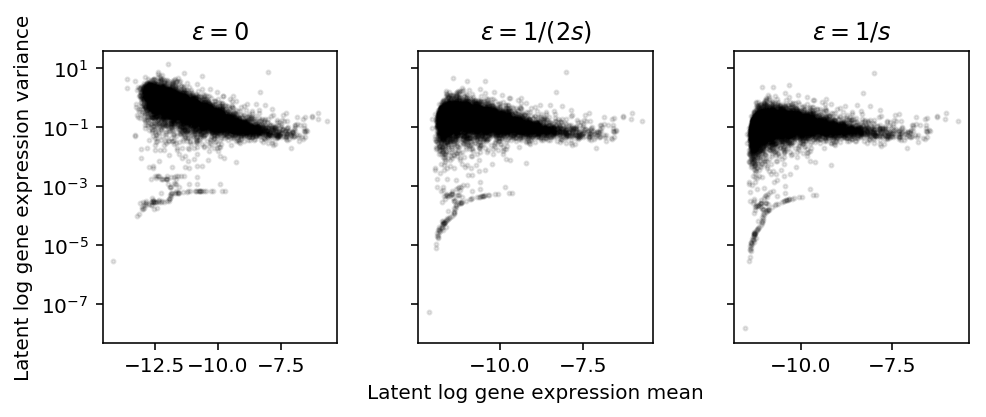
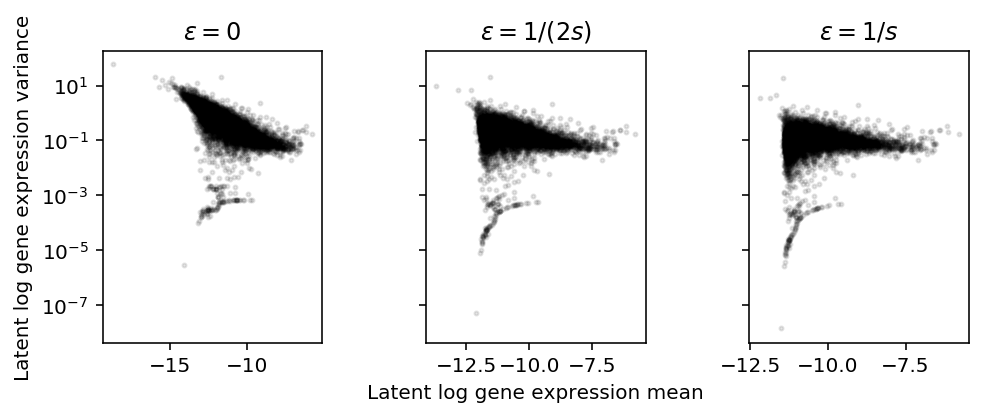
Use second order terms

diff --git a/docs/transforms.html b/docs/transforms.html
@@ -1,7 +1,7 @@
 <!DOCTYPE html>
 <html lang="en">
 <head>
-<!-- 2019-04-29 Mon 18:44 -->
+<!-- 2019-04-29 Mon 18:52 -->
 <meta charset="utf-8">
 <meta name="viewport" content="width=device-width, initial-scale=1">
 <title>Transformations of deconvolved gene expression distributions</title>
@@ -451,7 +451,7 @@ relationship between \(E[\ln(\lambda + \epsilon)]\) and
 <p>
 Importantly, \(\epsilon\) needs to be on the same scale as \(\lambda\). But
 \(x_{ijk} \sim \mathrm{Poisson}(s_{ij} \lambda_{ijk})\), so \(\lambda_{ijk}\)
-is on the scale of \(1 / s_{ij}\). Instead of assuming \(x_{ijk} \sim
+is on the scale of \(1 / s_{ij}\). Innstead of assuming \(x_{ijk} \sim
   F_{ijk}(\cdot)\), assume:
 </p>
 
@@ -486,7 +486,9 @@ Read the metadata for the iPSCs.
 fig.set_size_inches(7, 3)
 <span class="org-keyword">for</span> a, eps, t <span class="org-keyword">in</span> <span class="org-builtin">zip</span>(ax, np.array([0, 0.5, 1]) / s, [<span class="org-string">'0'</span>, <span class="org-string">'1/(2s)'</span>, <span class="org-string">'1/s'</span>]):
   a.set_yscale(<span class="org-string">'log'</span>)
-  a.scatter(np.log(mean[<span class="org-string">'NA18507'</span>] + eps), (2 * variance[<span class="org-string">'NA18507'</span>]) / np.square(mean[<span class="org-string">'NA18507'</span>] + eps), c=<span class="org-string">'k'</span>, s=4, alpha=0.1)
+  <span class="org-variable-name">m</span> = np.log(mean[<span class="org-string">'NA18507'</span>] + eps) - variance[<span class="org-string">'NA18507'</span>] / np.square(mean[<span class="org-string">'NA18507'</span>] + eps)
+  <span class="org-variable-name">v</span> = (2 * variance[<span class="org-string">'NA18507'</span>]) / np.square(mean[<span class="org-string">'NA18507'</span>] + eps) + np.square(variance[<span class="org-string">'NA18507'</span>]) / (mean[<span class="org-string">'NA18507'</span>] + eps) ** 4
+  a.scatter(m, v, c=<span class="org-string">'k'</span>, s=4, alpha=0.1)
   a.set_title(f<span class="org-string">'$\epsilon = {t}$'</span>)
 ax[1].set_xlabel(<span class="org-string">'Latent log gene expression mean'</span>)
 ax[0].set_ylabel(<span class="org-string">'Latent log gene expression variance'</span>)
@@ -626,7 +628,7 @@ fig.tight_layout()
 </div>
 <div id="postamble" class="status">
 <p class="author">Author: Abhishek Sarkar</p>
-<p class="date">Created: 2019-04-29 Mon 18:44</p>
+<p class="date">Created: 2019-04-29 Mon 18:52</p>
 <p class="validation"><a href="http://validator.w3.org/check?uri=referer">Validate</a></p>
 </div>
 </body>
